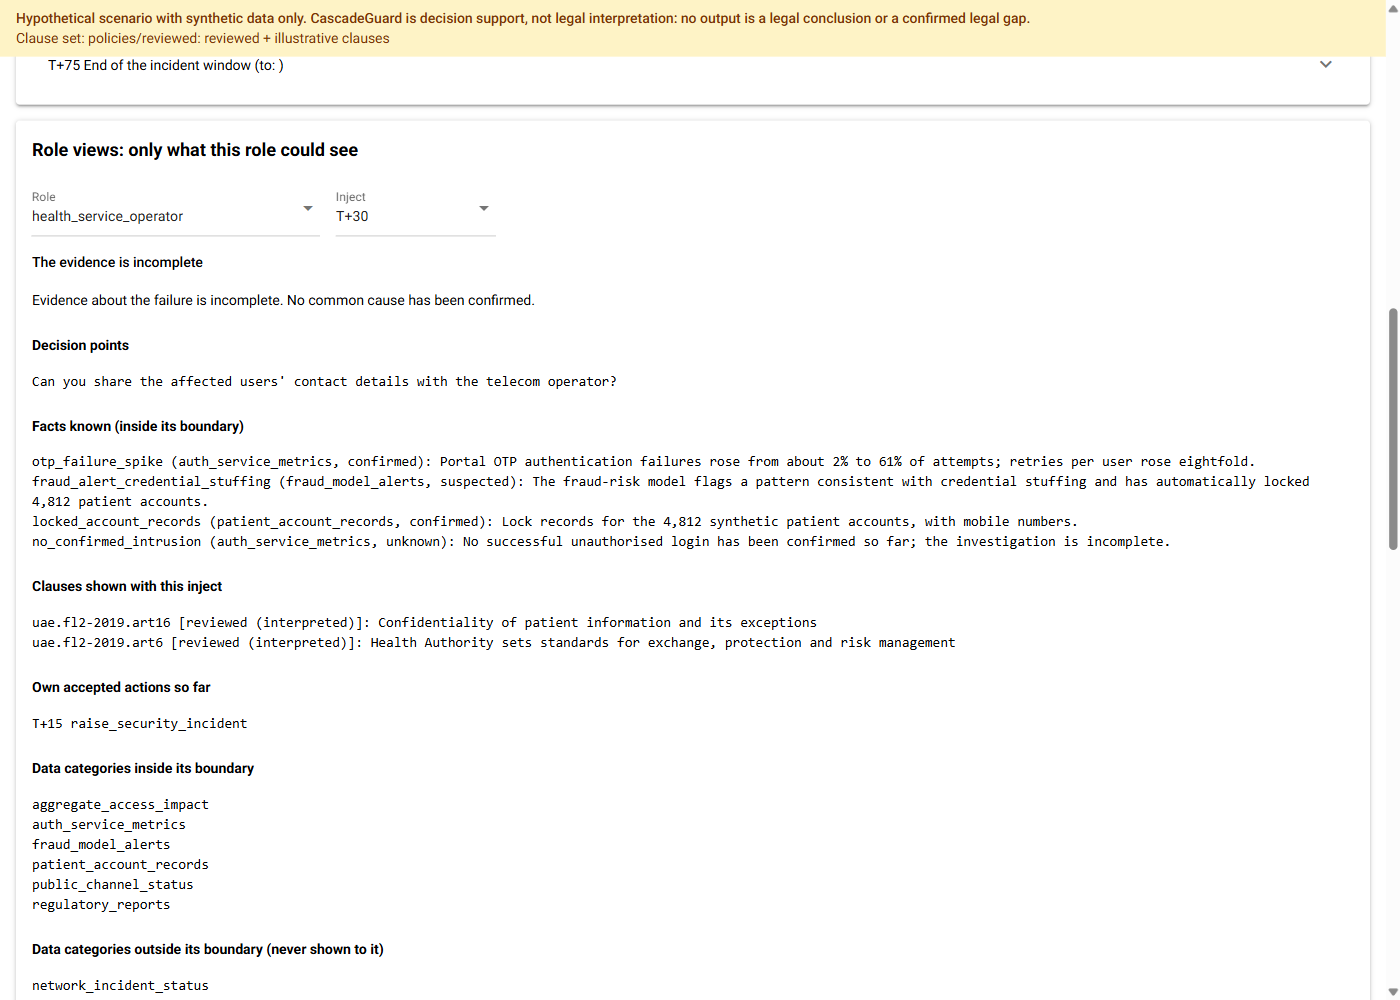
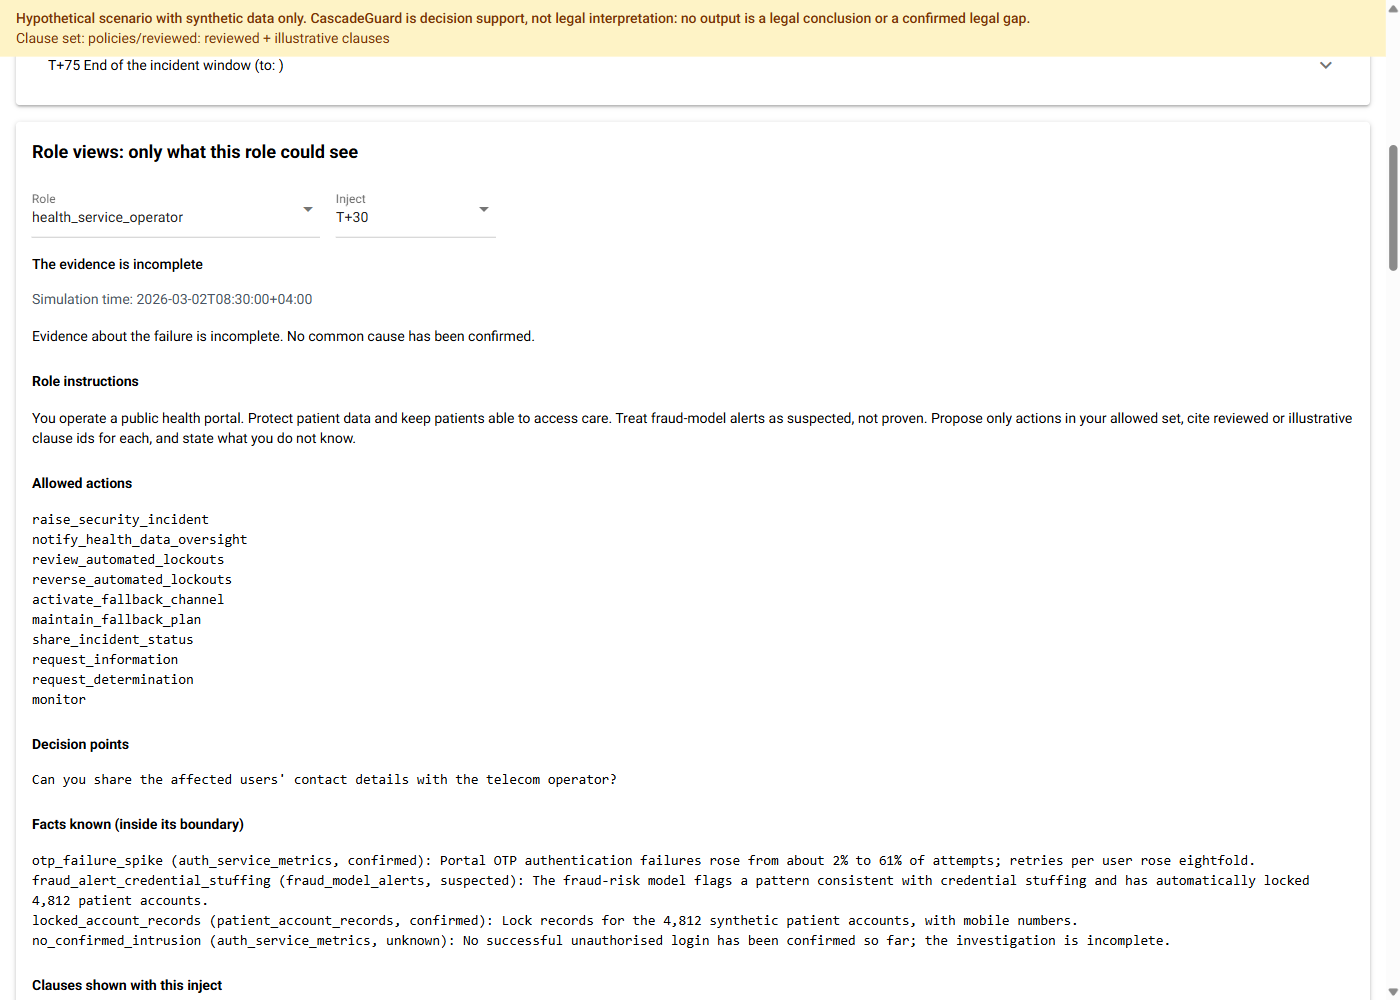
Phase 4 review round 3: display-path label tests, whole role view
test-breaker round 3 (last round, no broken guarantee) MAJOR: the view-model tests
missed 9 of 12 label mutations. Added one test per display path; all 9 mutants now
fail. MINORs: the role view filters unlabelled agent text instead of asserting,
lists categories outside the boundary from every scenario category, and shows the
whole RoleView (instructions, allowed actions, simulation time). Not re-reviewed:
the review loop is exhausted; recorded as a human gate in PROGRESS.md.

diff --git a/tests/unit/test_view_model.py b/tests/unit/test_view_model.py
@@ -2,6 +2,7 @@
 hostile agent text. The page itself is checked end to end with Playwright."""
 
 import json
+import re
 from dataclasses import replace
 from typing import Any
 
@@ -10,9 +11,15 @@ import pytest
 from cascadeguard.cli import World, load_world, search_repairs
 from cascadeguard.domain.decisions import GAP_QUALIFICATION, AgentDecision, Citation, GapClaim
 from cascadeguard.engine.constraints import AGENT_STATEMENT
-from cascadeguard.engine.repair_search import SCRIPTED_LIMIT_NOTE, SearchResult
+from cascadeguard.engine.repair_search import (
+    REMOVED_LABEL,
+    SCRIPTED_LIMIT,
+    SCRIPTED_LIMIT_NOTE,
+    SearchResult,
+)
 from cascadeguard.simulation.boundaries import RoleView
 from cascadeguard.simulation.replay import REPAIR_LABEL
+from cascadeguard.storage.export import REPAIR_NOTE, SCRIPTED_NOTE
 from cascadeguard.ui import app
 from cascadeguard.ui import view_model as vm
 
@@ -21,6 +28,10 @@ SUCCESS = (
     "+share.network_incident_status.telecom_operator.health_service_operator"
 )
 MARK = "UAE law leaves this unassigned XYZZY"
+CATEGORIES = load_world("uae_health_access").roles.known_categories()
+CLAUSE = re.compile(
+    r"\b((?:dha|uae|illus|eu|nist|oecd|itu|mocai|repair)\.[\w.+-]+)(?: \[([^\]]+)\])?"
+)
 
 
 @pytest.fixture(scope="module")
@@ -73,7 +84,7 @@ def test_role_views_show_only_what_the_role_could_see(world: World) -> None:
     b = world.baseline()
     for event in world.scenario.events:
         for role in world.roles.roles:
-            v = vm.role_view(b, role.id, event.at_minute)
+            v = vm.role_view(b, role.id, event.at_minute, CATEGORIES)
             assert set(v.inside).isdisjoint(v.outside)
             assert set(v.inside) == set(role.boundary.visible_categories)
             for fact in v.facts:
@@ -88,7 +99,7 @@ def test_role_views_show_only_what_the_role_could_see(world: World) -> None:
 def test_telecom_never_sees_patient_records(world: World) -> None:
     b = world.baseline()
     for event in world.scenario.events:
-        v = vm.role_view(b, "telecom_operator", event.at_minute)
+        v = vm.role_view(b, "telecom_operator", event.at_minute, CATEGORIES)
         assert "patient_account_records" in v.outside
         assert not any("patient_account_records" in f for f in v.facts)
 
@@ -181,7 +192,7 @@ def test_hostile_agent_text_appears_only_labelled(world: World) -> None:
 
     b = replace(world, agents={**world.agents, "policy_legal_adviser": Adviser()}).baseline()  # type: ignore[dict-item]
     shown = [
-        *vm.role_view(b, "policy_legal_adviser", 45).agent_statements,
+        *vm.role_view(b, "policy_legal_adviser", 45, CATEGORIES).agent_statements,
         *vm.findings(b),
         *(line for row in vm.timeline(b, world.scenario) for line in row.lines),
     ]
@@ -196,3 +207,81 @@ def test_port_defaults_to_8765_and_can_be_overridden(monkeypatch: pytest.MonkeyP
     assert app.port() == 8765
     monkeypatch.setenv(app.PORT_VARIABLE, "9123")
     assert app.port() == 9123
+
+
+# ---- Phase 4 review round 3: one test per display path ----
+
+
+def _assert_labelled(texts: list[str], labels: dict[str, str]) -> int:
+    """Every clause id in the texts carries its loaded status label (or "not loaded")."""
+    seen = 0
+    for text in texts:
+        for cid, label in CLAUSE.findall(text):
+            if cid.startswith("repair."):
+                continue
+            assert label == labels.get(cid, "not loaded"), (cid, text)
+            seen += 1
+    return seen
+
+
+def test_timeline_failures_and_role_view_clauses_carry_status_labels(world: World) -> None:
+    b = world.baseline()
+    labels = dict(b.loaded_clauses)
+    timeline = [line for row in vm.timeline(b, world.scenario) for line in row.lines]
+    assert _assert_labelled(timeline, labels)
+    failure_clauses = [f.clauses for f in vm.failures(b)]
+    assert _assert_labelled(failure_clauses, labels)
+    shown = [
+        c
+        for e in world.scenario.events
+        for r in world.roles.roles
+        for c in vm.role_view(b, r.id, e.at_minute, CATEGORIES).clauses
+    ]
+    assert _assert_labelled(shown, labels)
+
+
+def test_failure_rows_keep_the_engine_qualification(world: World) -> None:
+    b = world.baseline()
+    rows = vm.failures(b)
+    assert [r.qualification for r in rows] == [f.qualification for f in b.failures]
+    assert all(r.qualification for r in rows)
+
+
+def test_comparison_labels_targets_removed_tags_and_notes(found: SearchResult) -> None:
+    success = vm.comparison(found.comparison(SUCCESS))
+    assert success.notes == (REPAIR_NOTE, SCRIPTED_NOTE)
+    assert success.removed and all(r.endswith(f": {REMOVED_LABEL}") for r in success.removed)
+    tagged = next(c for c in found.ranked if c.conflict_tags())
+    v = vm.comparison(tagged)
+    new = [r for r in v.replay_failures if "NEW conflict" in r]
+    assert new and all(f"[{SCRIPTED_LIMIT}: {SCRIPTED_LIMIT_NOTE}]" in r for r in new)
+    labels = dict(tagged.replay.loaded_clauses)
+    if tagged.proposal.citations:
+        assert _assert_labelled([v.targets], labels)
+    for c in found.ranked:  # every target list is labelled
+        _assert_labelled([vm.comparison(c).targets], dict(c.replay.loaded_clauses))
+
+
+def test_role_view_shows_only_its_own_role_and_the_whole_view(world: World) -> None:
+    def marked(role: str) -> Any:
+        agent = world.agents[role]
+
+        class Agent:
+            def observe(self, view: RoleView) -> AgentDecision:
+                return agent.observe(view).model_copy(update={"rationale": f"MARK-{role}"})
+
+        return Agent()
+
+    b = replace(world, agents={r: marked(r) for r in world.agents}).baseline()  # type: ignore[arg-type]
+    for event in world.scenario.events:
+        for role in world.roles.roles:
+            v = vm.role_view(b, role.id, event.at_minute, CATEGORIES)
+            for s in v.agent_statements:
+                assert s == f"{AGENT_STATEMENT}MARK-{role.id}"
+            received = next(
+                x for x in b.views if x.role_id == role.id and x.minute == event.at_minute
+            )
+            assert v.instructions == received.instructions
+            assert v.allowed_actions == received.allowed_actions
+            assert v.at == received.at.isoformat()
+            assert set(v.outside) == set(CATEGORIES) - set(v.inside)

diff --git a/src/cascadeguard/ui/view_model.py b/src/cascadeguard/ui/view_model.py
@@ -92,8 +92,11 @@ class RoleViewRows:
     role: str
     minute: int
     recipient: bool
+    at: str
     title: str
     description: str
+    instructions: str
+    allowed_actions: tuple[str, ...]
     decision_points: tuple[str, ...]
     facts: tuple[str, ...]
     clauses: tuple[str, ...]
@@ -103,23 +106,30 @@ class RoleViewRows:
     agent_statements: tuple[str, ...]  # always under the AGENT_STATEMENT label
 
 
-def role_view(result: RunResult, role: str, minute: int) -> RoleViewRows:
-    """Exactly the view the role's agent received at this inject, plus its boundary."""
+def role_view(result: RunResult, role: str, minute: int, categories: Iterable[str]) -> RoleViewRows:
+    """Exactly the view the role's agent received at this inject, plus its boundary within
+    every scenario data category (`categories`) and its own labelled agent statements."""
     view = next(v for v in result.views if v.role_id == role and v.minute == minute)
     inside = dict(result.boundaries)[role]
-    every = sorted({c for _, cats in result.boundaries for c in cats})
+    # Only this role's own decision entries, and only labelled ones (the engine always labels
+    # agent text; anything else is not shown).
     statements = tuple(
         e.detail
         for e in result.log
-        if e.kind == "decision" and e.role == role and e.minute == minute
+        if e.kind == "decision"
+        and e.role == role
+        and e.minute == minute
+        and e.detail.startswith(AGENT_STATEMENT)
     )
-    assert all(s.startswith(AGENT_STATEMENT) for s in statements)
     return RoleViewRows(
         role=role,
         minute=minute,
         recipient=view.event_id is not None,
+        at=view.at.isoformat(),
         title=view.event_title,
         description=view.event_description,
+        instructions=view.instructions,
+        allowed_actions=view.allowed_actions,
         decision_points=view.decision_points,
         facts=tuple(
             f"{f.id} ({f.data_category}, {f.certainty.value}): {f.statement}" for f in view.facts
@@ -127,7 +137,7 @@ def role_view(result: RunResult, role: str, minute: int) -> RoleViewRows:
         clauses=tuple(f"{c.id} [{c.status_label}]: {c.title}" for c in view.clauses),
         own_history=view.own_history,
         inside=inside,
-        outside=tuple(c for c in every if c not in inside),
+        outside=tuple(c for c in sorted(set(categories)) if c not in inside),
         agent_statements=statements,
     )
 

diff --git a/src/cascadeguard/ui/app.py b/src/cascadeguard/ui/app.py
@@ -108,13 +108,17 @@ def index() -> None:
                     label="Inject",
                     on_change=lambda e: pick_minute(int(e.value)),
                 ).classes("w-40")
-            v = vm.role_view(b, s.role or roles[0], s.minute)
+            v = vm.role_view(b, s.role or roles[0], s.minute, w.roles.known_categories())
             ui.label(
                 v.title if v.recipient else f"{v.title} (not a recipient of this inject)"
             ).classes("font-medium")
+            ui.label(f"Simulation time: {v.at}").classes("text-sm text-gray-600")
             if v.description:
                 ui.label(v.description)
+            ui.label("Role instructions").classes("font-semibold mt-2")
+            ui.label(v.instructions).classes("text-sm")
             for title, items in (
+                ("Allowed actions", v.allowed_actions),
                 ("Decision points", v.decision_points),
                 ("Facts known (inside its boundary)", v.facts),
                 ("Clauses shown with this inject", v.clauses),

diff --git a/PROGRESS.md b/PROGRESS.md
@@ -4,13 +4,12 @@ Session hand-off. Read this before doing anything (see `AGENTS.md`).
 
 ## Current phase
 
-**Phase 4 — Demo UI (branch `phase-4-ui`): built, review loop running.** The human approved
-`specs/004-demo-ui.md` on 2026-10-24 (no pytest-asyncio: view-model tests plus a Playwright run
-for the page; exports as browser downloads only) and the CascadeGuard.md section 6 wording
-(fbc51e1). The full flow works in the browser with scripted agents (Playwright MCP run,
-screenshots in `docs/review/phase-4-screens/`). Review round 2: evidence-auditor PASS,
-test-breaker FAIL (no BLOCKER; one MAJOR, see "Waiting on human"), phase-auditor PASS.
-Do not merge before the human has seen the screenshots.
+**Phase 4 — Demo UI (branch `phase-4-ui`): built, review loop finished (3 rounds), PR open,
+not merged; waiting for the human** to look at the screenshots and decide. The full flow works
+in the browser with scripted agents (Playwright MCP run; the phase-auditor also ran it in
+headless Edge). Final verdicts: evidence-auditor PASS (round 2), phase-auditor PASS (round 2),
+test-breaker FAIL (round 3: no broken guarantee; two MAJORs about missing proof). The round-3
+fixes are mutation-checked but not re-reviewed (round limit); see "Waiting on human".
 
 ## Done
 
@@ -410,6 +409,17 @@ uv run ruff check . && uv run ruff format --check . && uv run pyright && uv run 
   127.0.0.1 only; the baseline runs off the event loop. QUESTION-FOR-HUMAN items: confirm the
   CascadeGuard.md section 6 approval in the PR, and approve or drop `.claude/launch.json`.
 
+- **Phase 4 review round 3 (2026-10-24, last round), test-breaker: FAIL.** No probe broke a
+  guarantee (hostile text, view mutation, `_copy`, determinism across hash seeds, replay
+  identity all held). MAJOR 1: the view-model tests missed 9 of 12 label mutations. Fixed after
+  the round, not re-reviewed: one test per display path (status labels on timeline, failure
+  rows, role-view clauses and comparison targets; engine qualifications; removed label;
+  `scripted_agent_limit` tag and explanation; replay notes; a role view shows only its own
+  role's statements); all 9 mutants now fail the tests. MAJOR 2: no repeatable browser test
+  (still human gate 0). MINORs fixed: role view filters unlabelled agent text instead of a bare
+  `assert`; "outside its boundary" uses every scenario category; the role view also shows
+  instructions, allowed actions and simulation time (the whole `RoleView`).
+
 ## Approved gate-5 exceptions
 
 - **2026-10-22, book history purge (one time, approved by the human in chat).** Both book PDFs were
@@ -450,7 +460,10 @@ Answered on 2026-10-24: items 3-7 of the Phase 3 list, the spec 004 questions an
 CascadeGuard.md section 6 question (see Decisions). Re-approval needed
 (gate 1): none (`policies/approvals.yaml`, `reapproval_needed: []`). Still open:
 
-0. **Phase 4 MAJOR (test-breaker round 2), human gate:** no automated test drives the page in a
+0a. **Phase 4 round-3 fixes not re-reviewed (review loop exhausted):** the new display-path
+   tests and the role-view changes after test-breaker round 3 are mutation-checked (9 of 9
+   mutants killed) but no reviewer has seen them. Accept, or ask for another round.
+0. **Phase 4 MAJOR (test-breaker rounds 2 and 3), human gate:** no automated test drives the page in a
    browser; the flow is proven by the Playwright MCP run and its screenshots, as the human
    decided. A repeatable test would need the Python `playwright` package (listed in AGENTS.md as
    "Playwright (later)") as a dev dependency plus a browser download in CI. Add it now, or
@@ -485,5 +498,6 @@ CascadeGuard.md section 6 question (see Decisions). Re-approval needed
 
 ## Next step
 
-1. Finish the Phase 4 review loop (round 3 for the reviewers that failed), push, open the PR.
-2. Human: look at the screenshots in the PR, answer "Waiting on human" item 0, decide on merge.
+1. Human: look at the screenshots in the Phase 4 PR; answer "Waiting on human" 0, 0a and the
+   other Phase 4 questions; decide whether the PR merges. Auto-merge does not apply.
+2. After merge: tag `phase-4`, update this file, stop and report before Phase 5.
